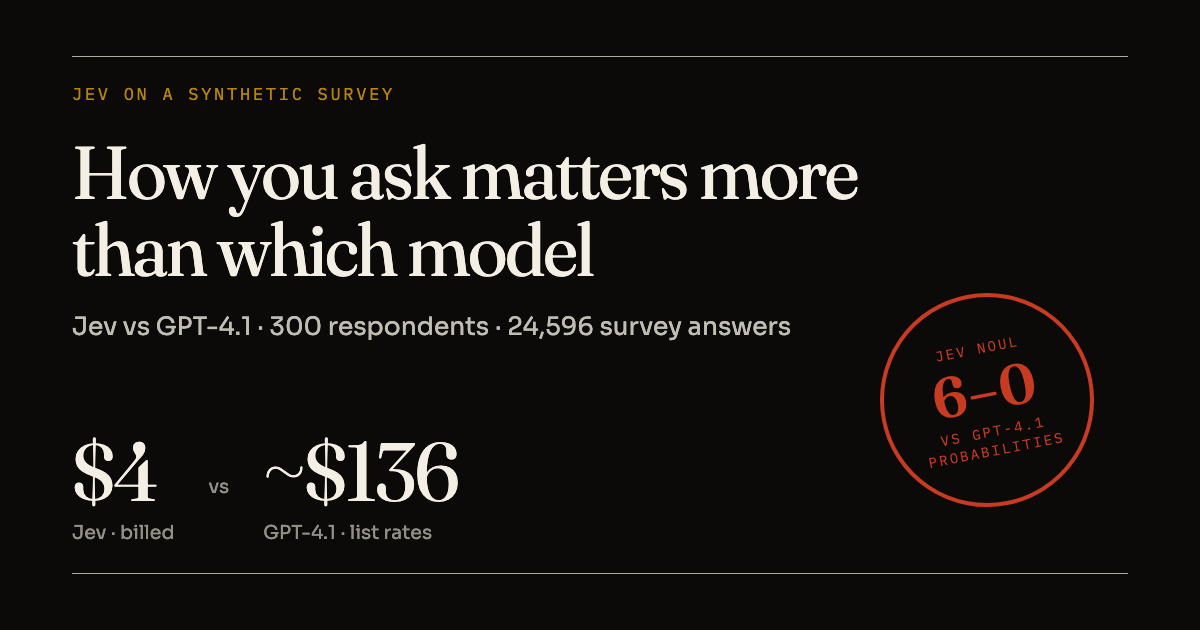
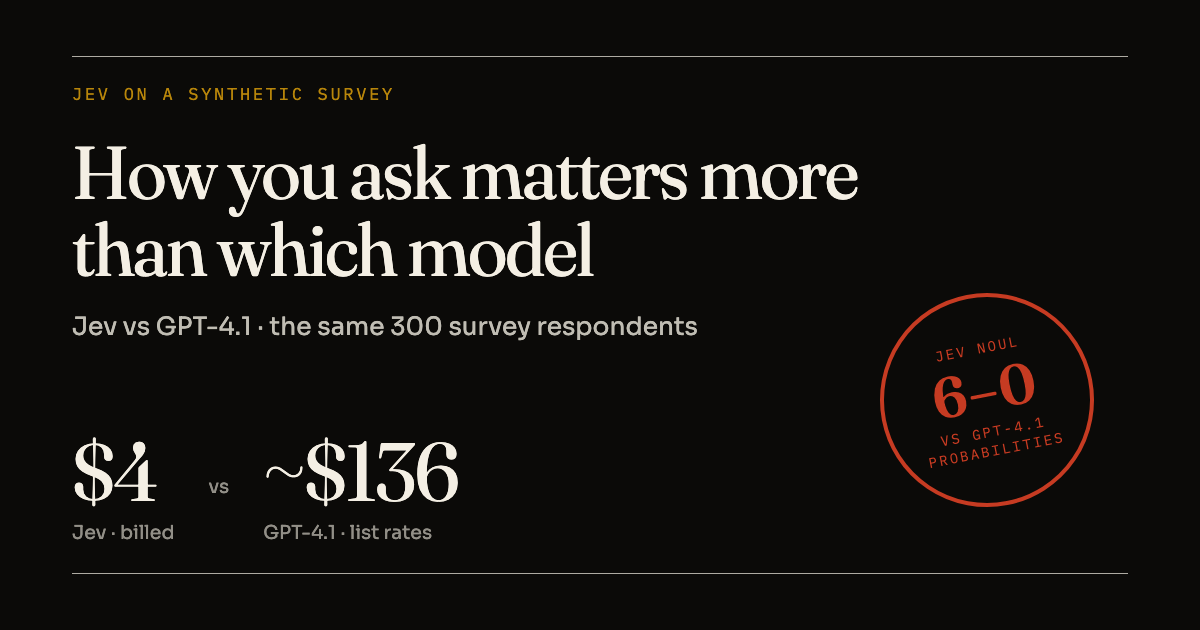
Quote respondents, not cells, on the card and its metadata
The share card read "300 respondents · 24,596 survey answers" while the page
reports 2,058 respondents two chapters later. One is the comparison's cell
count, the other is the panel's sample, and nothing on the card said which was
which. The card and the three metadata strings that describe it now give one
unit: the same 300 survey respondents.

In-body uses of 24,596 stay, where the cell is the right unit and the
surrounding sentence says which arm it belongs to.

Changed region(s): [[0.2158, 0.4825, 0.6783, 0.5429]]

diff --git a/site/index.html b/site/index.html
@@ -4,7 +4,7 @@
   <meta charset="utf-8">
   <meta name="viewport" content="width=device-width, initial-scale=1">
   <title>Jev vs GPT-4.1 on a synthetic survey</title>
-  <meta name="description" content="Jev vs GPT-4.1 as synthetic survey respondents: 300 people, 24,596 answers. How you ask mattered more than which model you used.">
+  <meta name="description" content="Jev vs GPT-4.1 as synthetic survey respondents, on the same 300 people. How you ask mattered more than which model you used.">
   <link rel="canonical" href="https://jjd-lab.github.io/jev-synthetic-survey/">
   <meta property="og:title" content="How you ask matters more than which model">
   <meta property="og:description" content="Jev vs GPT-4.1 on Twin-2K-500. Asked as a Noul, Jev leads GPT-4.1 probabilities on all six measures, at $4 billed against roughly $136 at list rates.">
@@ -13,14 +13,14 @@
   <meta property="og:image" content="https://jjd-lab.github.io/jev-synthetic-survey/assets/og.png">
   <meta property="og:image:width" content="1200">
   <meta property="og:image:height" content="630">
-  <meta property="og:image:alt" content="How you ask matters more than which model. Jev vs GPT-4.1, 300 respondents, 24,596 survey answers, $4 billed against about $136 at list rates, six measures to none against GPT-4.1 probabilities.">
+  <meta property="og:image:alt" content="How you ask matters more than which model. Jev vs GPT-4.1, the same 300 survey respondents, $4 billed against about $136 at list rates, six measures to none against GPT-4.1 probabilities.">
   <meta property="og:site_name" content="Jev on a synthetic survey">
   <meta name="author" content="jjd-lab">
   <meta name="twitter:card" content="summary_large_image">
   <meta name="twitter:title" content="How you ask matters more than which model">
   <meta name="twitter:description" content="Jev vs GPT-4.1 on Twin-2K-500. Asked as a Noul, Jev leads GPT-4.1 probabilities on all six measures, at $4 billed against roughly $136 at list rates.">
   <meta name="twitter:image" content="https://jjd-lab.github.io/jev-synthetic-survey/assets/og.png">
-  <meta name="twitter:image:alt" content="How you ask matters more than which model. Jev vs GPT-4.1, 300 respondents, 24,596 survey answers, $4 billed against about $136 at list rates, six measures to none against GPT-4.1 probabilities.">
+  <meta name="twitter:image:alt" content="How you ask matters more than which model. Jev vs GPT-4.1, the same 300 survey respondents, $4 billed against about $136 at list rates, six measures to none against GPT-4.1 probabilities.">
   <link rel="icon" href="assets/favicon.svg" type="image/svg+xml">
   <link rel="preconnect" href="https://fonts.googleapis.com">
   <link rel="preconnect" href="https://fonts.gstatic.com" crossorigin>
@@ -82,8 +82,8 @@
             distribution gap from <span data-fig="noul.choice_soft_nominal">0.1985</span> to <span data-fig="noul.noul_soft_nominal">0.1530</span>, at the same price.</li>
           <li>A persona of 620 of the person’s own past answers lifts both models at both levels,
             and Jev keeps pace with GPT-4.1.</li>
-          <li>No arm predicts an individual yet. Every one scores below a baseline that ignores the
-            persona entirely, and richer grounding is what closes the distance.</li>
+          <li>No arm predicts an individual yet. Per-person correlation with the human sits near
+            zero on 15 of the 16 tasks, whatever the persona carries.</li>
         </ul>
       </div>
     </section>
@@ -203,9 +203,9 @@
 
       <figure class="frame">
         <figcaption>
-          Accuracy against the human test–retest ceiling and the paper’s published twin. Every arm
-          also lands under <span data-fig="constants.panel_loo_floor_pct">73.27</span>%, the score
-          you get by ignoring the persona entirely and going with what everyone else answered.
+          Accuracy against the human test–retest ceiling and the paper’s published twin. The three
+          arms sit within 2.7 points of each other, and 9 to 12 points below what the humans manage
+          against their own earlier answers.
         </figcaption>
         <div class="chart" id="chart-floors"></div>
       </figure>
@@ -219,10 +219,10 @@
       </figure>
 
       <aside class="pull">
-        Every arm lands near the twin the paper published — and every arm loses to a rule that
-        ignores the persona and answers each question the way most people did. Both are close to
-        the majority; neither is reading the individual. Good for a population’s distribution, not
-        for a specific person.
+        Six hundred and twenty of a person’s own past answers buy +2.66 points of accuracy over
+        fourteen demographic facts. Letting the model read its own earlier answers buys less than a
+        quarter of a point. A demographics-grounded twin is usable for a population’s distribution,
+        not for predicting a specific person.
       </aside>
 
       <p class="source">
@@ -267,8 +267,7 @@
         </p>
         <p>
           Accuracy is last on purpose. The arm that wins it, GPT-4.1 hard answer at <span data-fig="comparison.arms.gpt41_hard.accuracy_pct">69.32</span>%,
-          is last on the distribution gap. All five land under <span data-fig="constants.comparison_loo_floor_pct">73.59</span>% on this 300-person slice,
-          the score from ignoring the persona entirely.
+          is last on the distribution gap.
         </p>
       </div>
 
@@ -306,7 +305,7 @@
         <figcaption>
           <strong>Swap the 14 demographic facts for 620 of the person’s own past answers and both
           levels improve.</strong> Not enough to predict an individual: <span data-fig="grounding.prior_rho">0.1045</span> is near zero on most
-          tasks, and the arm stays below the persona-blind baseline. Both bars hold statefulness
+          tasks. Both bars hold statefulness
           fixed, so grounding is the only thing that moved — GPT-4.1 shifts the same way, 0.0945 to
           0.1068.
         </figcaption>

diff --git a/site/assets/og.html b/site/assets/og.html
@@ -117,7 +117,7 @@
   <div class="card">
     <p class="kicker">Jev on a synthetic survey</p>
     <h1>How you ask matters more than which model</h1>
-    <p class="sub">Jev vs GPT-4.1 · 300 respondents · 24,596 survey answers</p>
+    <p class="sub">Jev vs GPT-4.1 · the same 300 survey respondents</p>
 
     <div class="prices">
       <div class="price"><strong>$4</strong><span>Jev · billed</span></div>
